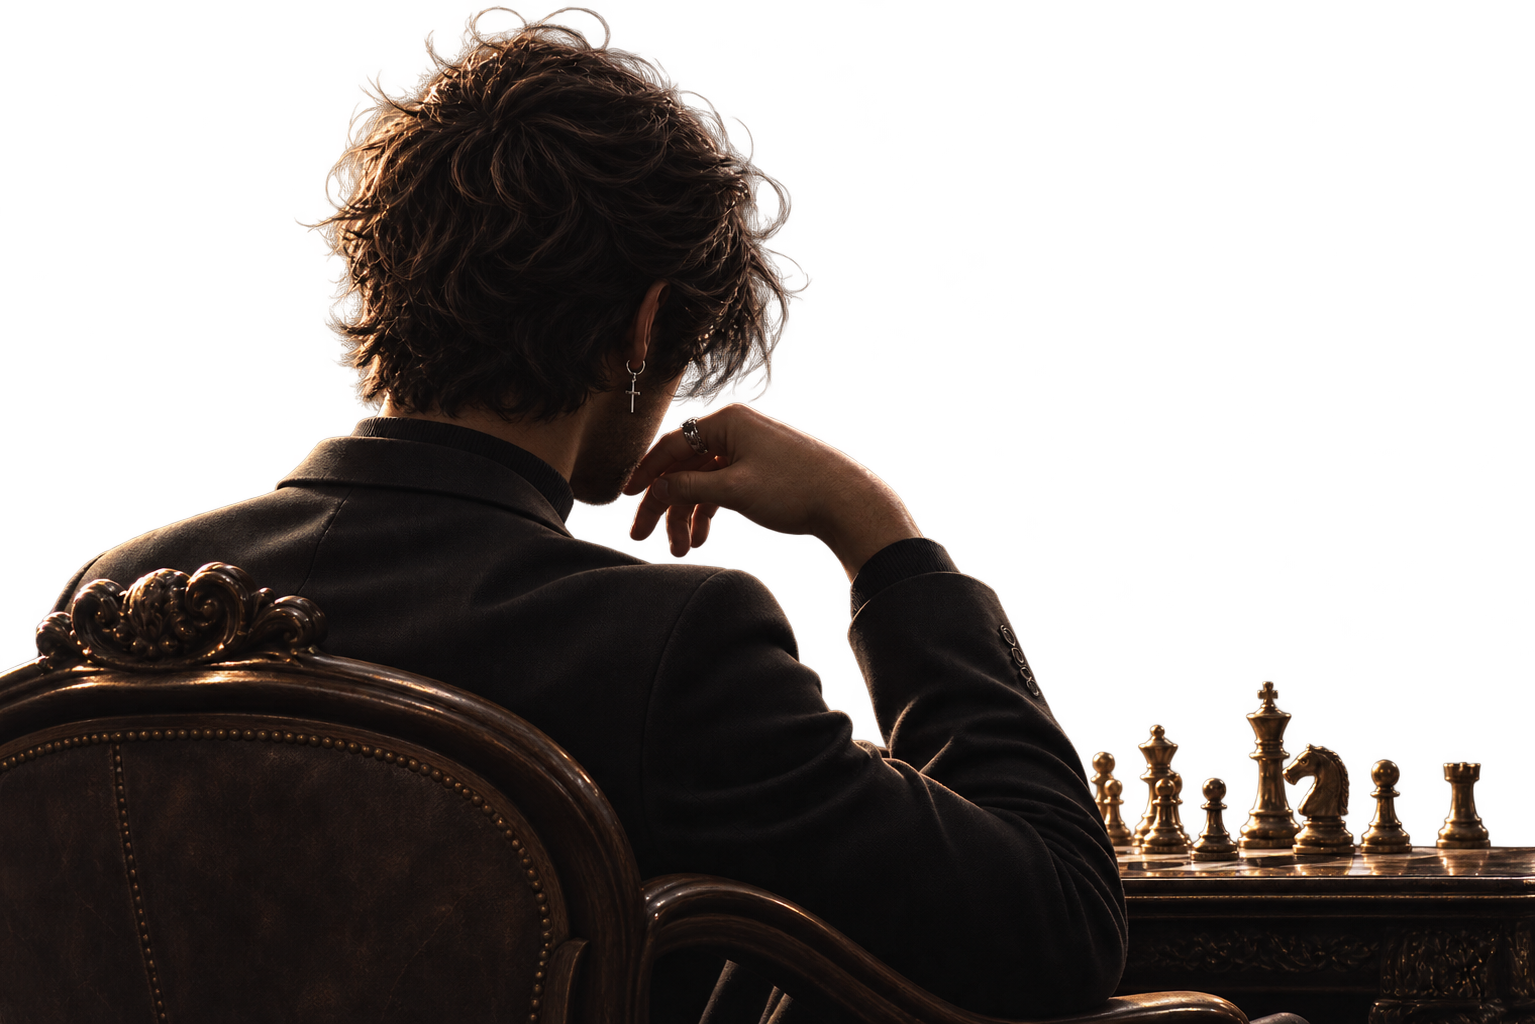
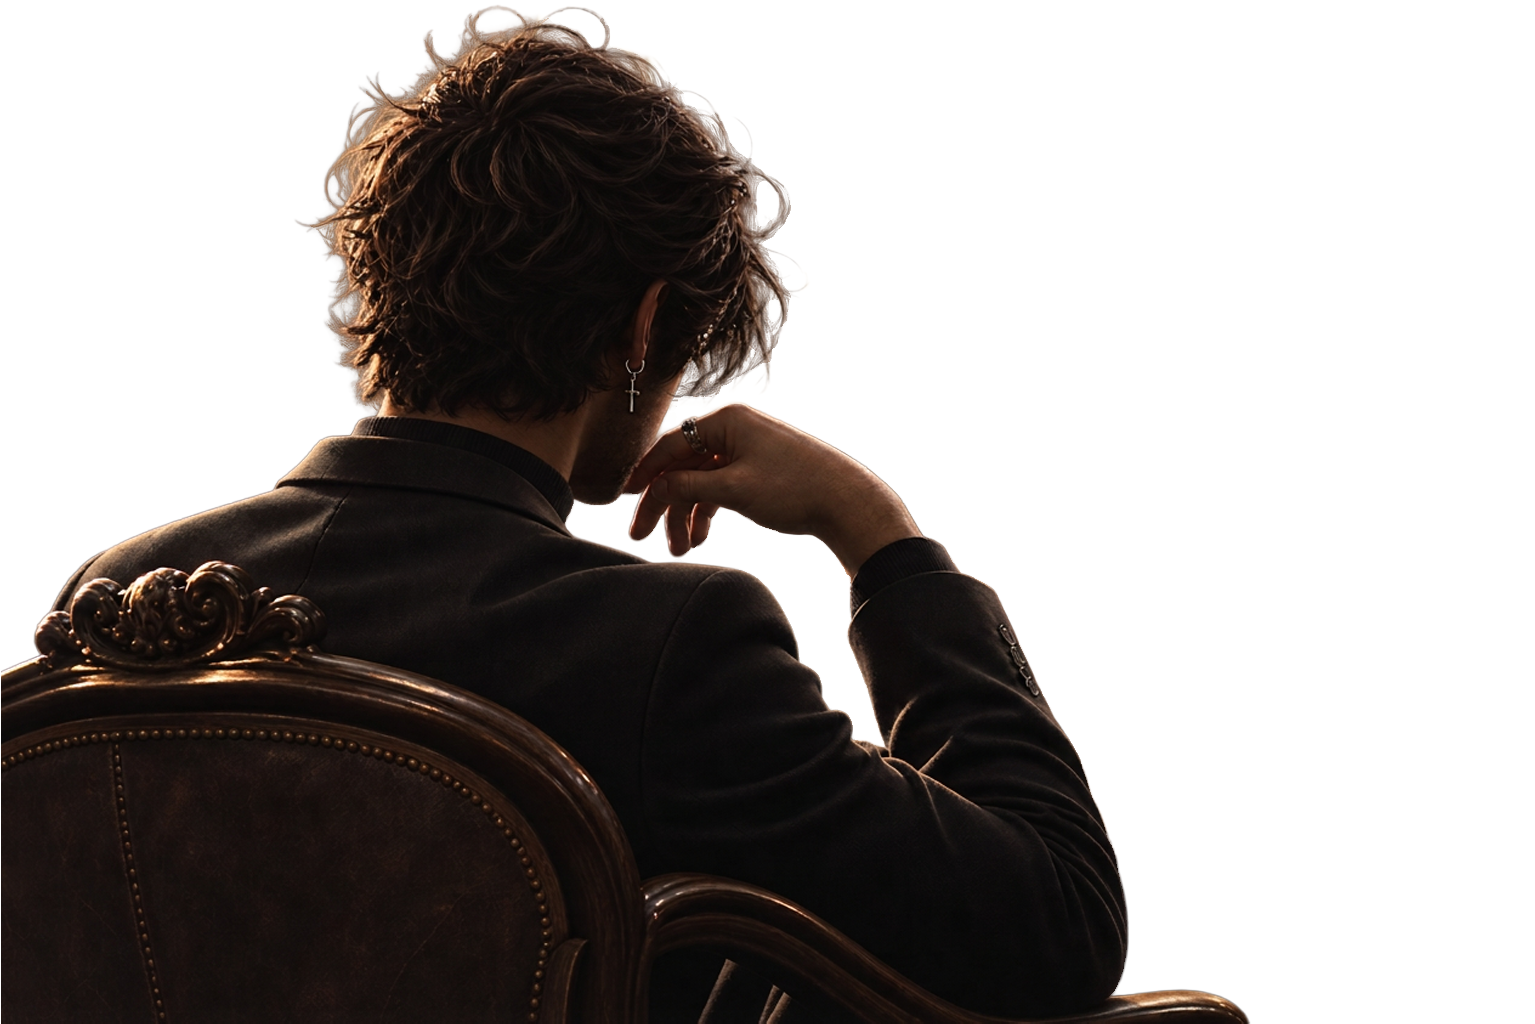
fix: blend About opening portrait into scene

diff --git a/assets/about/about.css b/assets/about/about.css
@@ -43,7 +43,7 @@ html[data-content-id="about"] .site-footer { width: min(100% - 2 * var(--about-g
 .opening-scene { position: absolute; z-index: 0; inset: 0 auto auto 50%; width: min(100vw, 1920px); height: 100%; overflow: visible; transform: translateX(-50%); pointer-events: none; background: radial-gradient(ellipse 34% 76% at 22% 47%, rgb(111 35 151 / 25%), transparent 73%), radial-gradient(ellipse 42% 78% at 86% 48%, rgb(31 75 157 / 23%), transparent 74%), linear-gradient(100deg, #0a0610 0%, #060609 49%, #050812 100%); }
 .opening-scene::after { content: none; }
 .opening-portrait-frame { position: absolute; left: -24px; top: 12px; width: 100%; height: auto; aspect-ratio: 1535 / 1024; overflow: visible; -webkit-mask-image: none; mask-image: none; }
-.opening-portrait-frame > .media-skeleton-layer { -webkit-mask: url("/assets/about/opening/bruno-cutout.png") center / 100% 100% no-repeat; mask: url("/assets/about/opening/bruno-cutout.png") center / 100% 100% no-repeat; }
+.opening-portrait-frame > .media-skeleton-layer { -webkit-mask: url("/assets/about/opening/bruno-cutout.png?v=clean-alpha-1") center / 100% 100% no-repeat; mask: url("/assets/about/opening/bruno-cutout.png?v=clean-alpha-1") center / 100% 100% no-repeat; }
 .opening-portrait { position: relative; width: 100%; height: 100%; transform: none; transform-origin: initial; -webkit-mask-image: none; mask-image: none; }
 .opening-portrait-image { display: block; width: 100%; height: 100%; object-fit: contain; object-position: left top; filter: grayscale(1) brightness(1) contrast(1.04); }
 .opening-copy { position: absolute; z-index: 2; top: clamp(144px, calc(6.875vw + 56px), 176px); right: max(5vw, calc((100vw - 1920px) / 2 + 96px)); width: min(40.625vw, 780px); max-width: none; padding: 0; }
@@ -939,8 +939,24 @@ body[data-score-gpu-scroll="true"] .about-rebuild .opening-copy :is(h1, .opening
   .opening-portrait-image { animation: none !important; transform: none !important; }
 }
 
-/* Original portrait stays intact; only the table is generated independently. */
-.opening-portrait-frame { -webkit-mask-image: url('/assets/about/opening/portrait-only-mask.svg'); mask-image: url('/assets/about/opening/portrait-only-mask.svg'); }
+/* The portrait PNG supplies its own alpha; the table is a separate layer. */
+.opening-portrait-frame {
+  -webkit-mask-image: none;
+  mask-image: none;
+  /* Directional spill follows the PNG alpha, without a rectangular shadow. */
+  filter: drop-shadow(-2px 1px 3px rgb(112 61 160 / 16%))
+    drop-shadow(1px 1px 2px rgb(44 78 130 / 10%));
+}
+body .about-rebuild .about-opening .opening-scene::after {
+  content: "";
+  position: absolute;
+  z-index: 3;
+  inset-inline: 0;
+  inset-block-end: 0;
+  block-size: clamp(56px, 14svh, 140px);
+  background: linear-gradient(0deg, rgb(var(--site-background-rgb) / .64), transparent);
+  pointer-events: none;
+}
 .opening-board-layer[data-opening-table] { -webkit-mask-image: none; mask-image: none; }
 .opening-board-layer[data-opening-table] > .opening-board-image {
   width: 130%;
